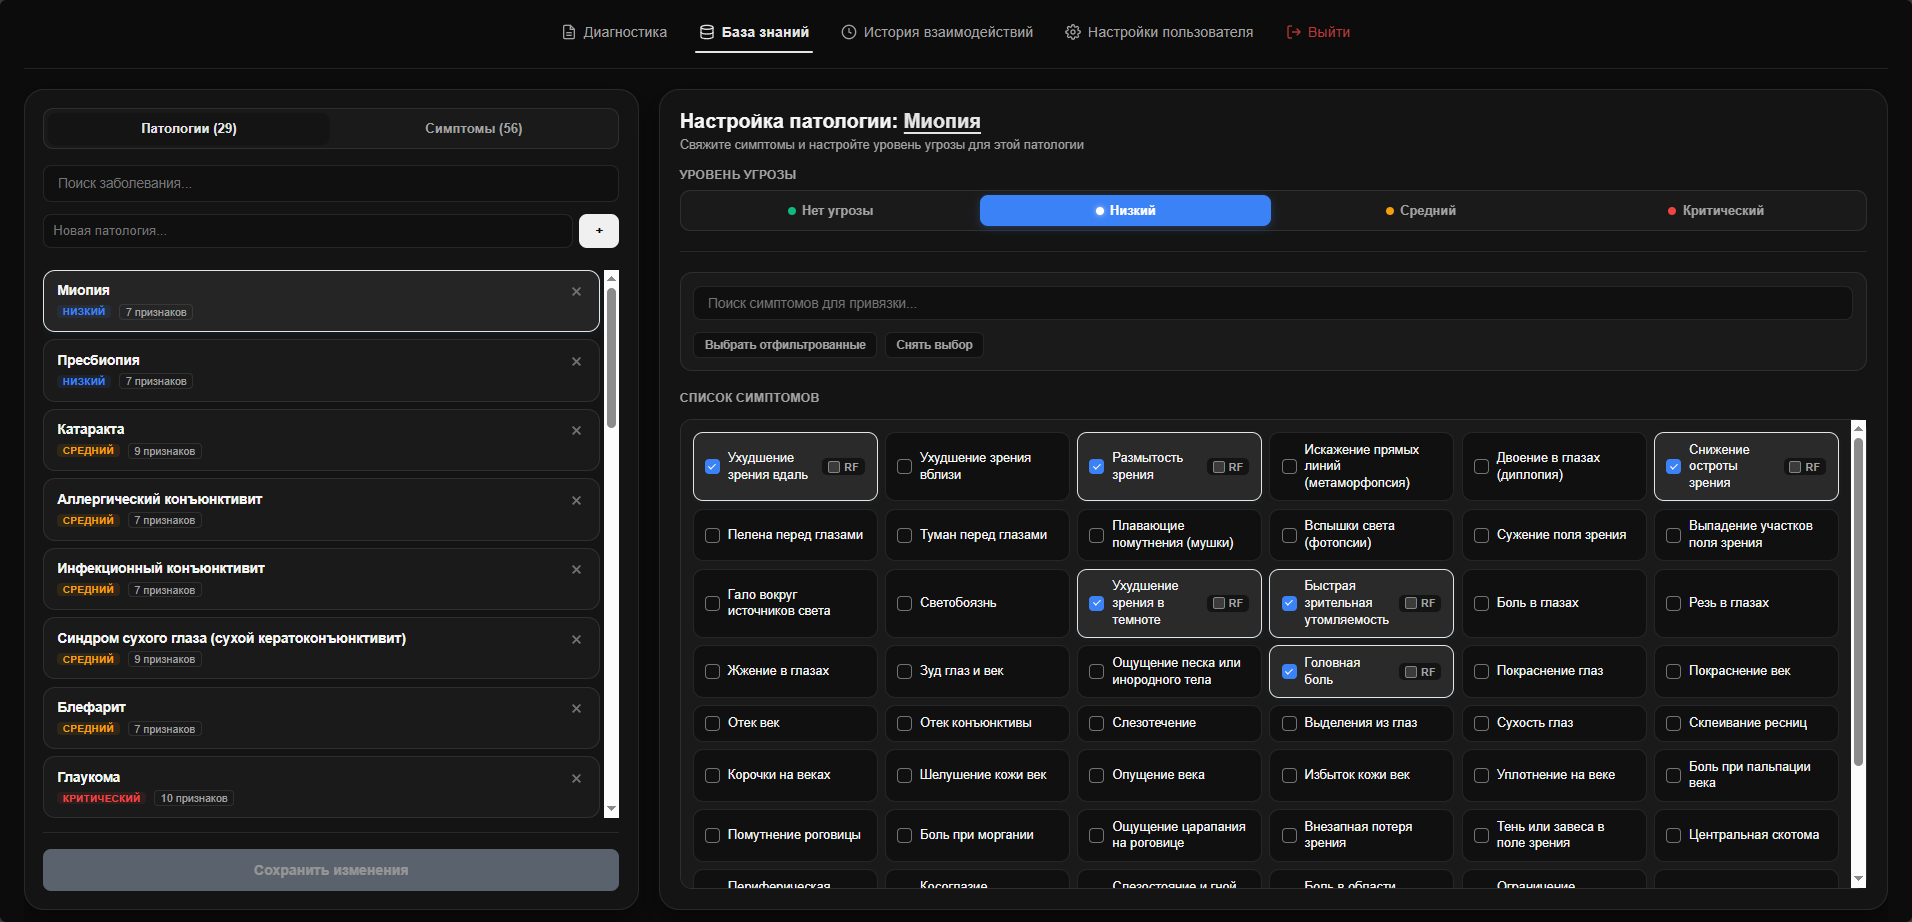
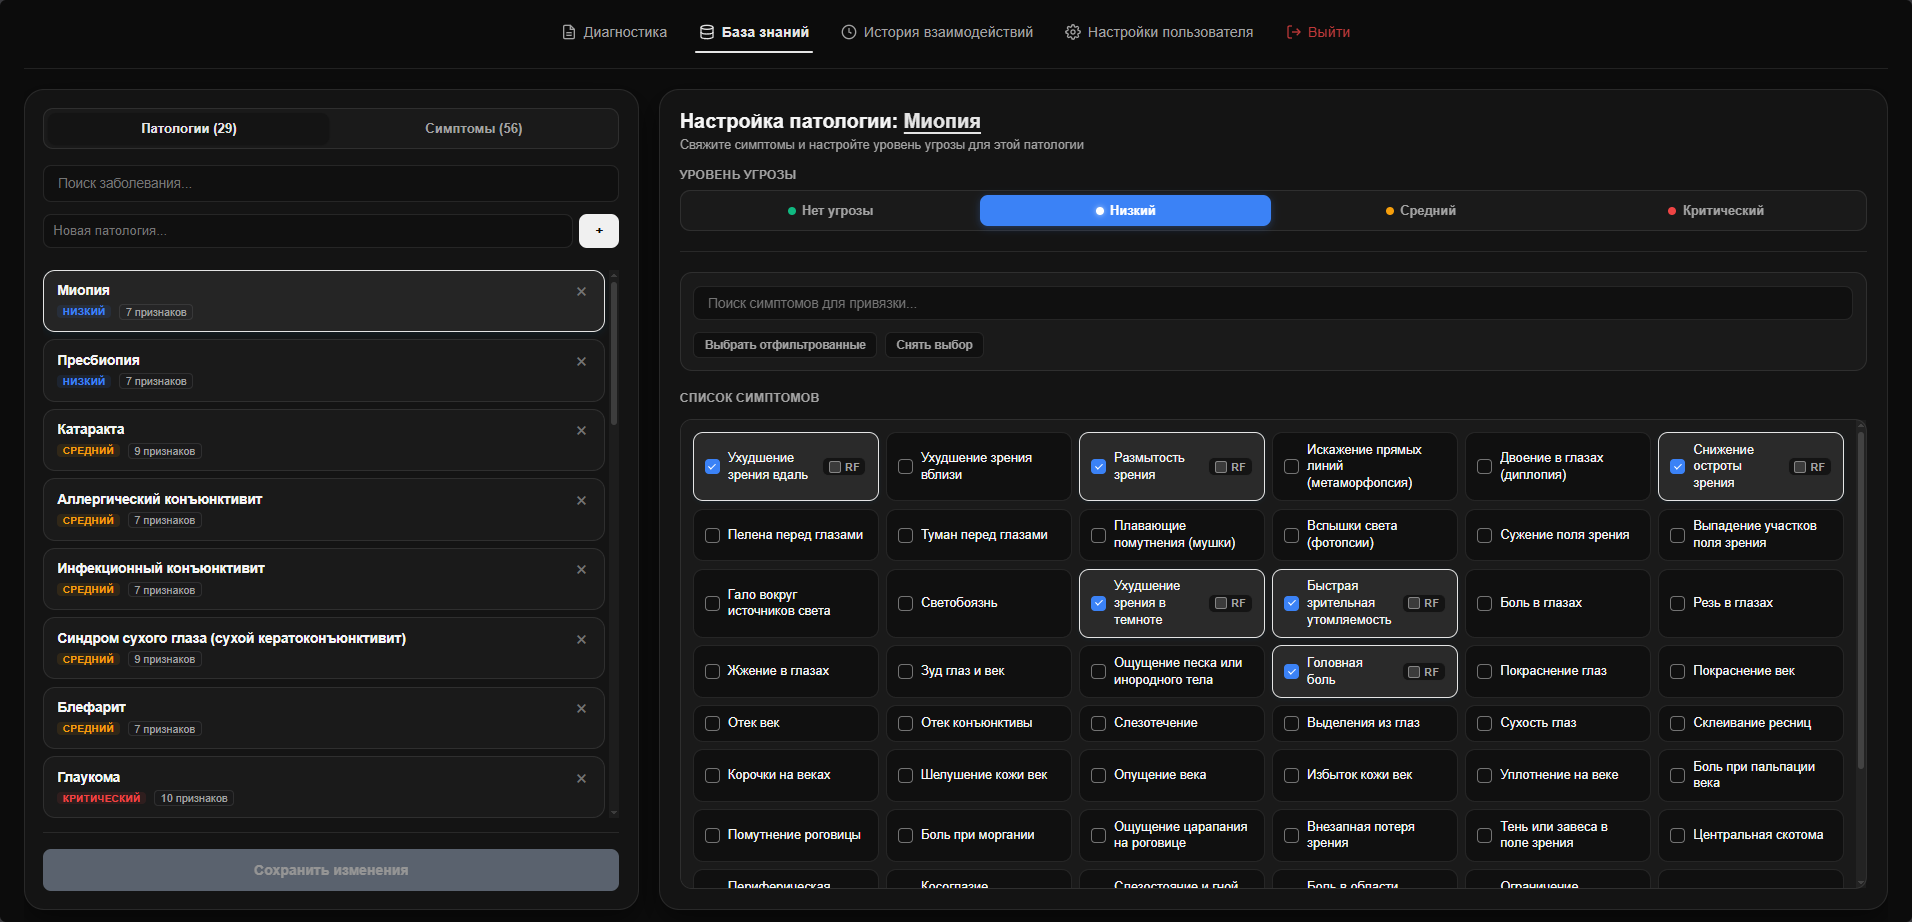
Scrollbar and screenshot image 2.png updates

diff --git a/frontend/src/App.css b/frontend/src/App.css
@@ -93,6 +93,11 @@
   --app-bottom-nav-height: 3.5rem;
   --app-bottom-nav-offset: calc(var(--app-bottom-nav-height) + env(safe-area-inset-bottom, 0px));
 
+  --scrollbar-size: 8px;
+  --scrollbar-track: rgba(15, 23, 42, 0.04);
+  --scrollbar-thumb: rgba(15, 23, 42, 0.16);
+  --scrollbar-thumb-hover: rgba(15, 23, 42, 0.28);
+
   color-scheme: light;
 }
 
@@ -120,6 +125,11 @@
     --shadow-md: 0 12px 28px rgba(0, 0, 0, 0.45);
     --shadow-lg: 0 28px 56px rgba(0, 0, 0, 0.55);
     --shadow-focus: 0 0 0 4px rgba(255, 255, 255, 0.1);
+
+    --scrollbar-size: 8px;
+    --scrollbar-track: rgba(255, 255, 255, 0.04);
+    --scrollbar-thumb: rgba(255, 255, 255, 0.14);
+    --scrollbar-thumb-hover: rgba(255, 255, 255, 0.24);
 
     color-scheme: dark;
   }
@@ -159,6 +169,57 @@
   .symptom-count-badge {
     background-color: var(--bg-hover);
   }
+}
+
+html,
+.diagnostics-panel-centered.diagnostics-has-results,
+.textarea-container-premium textarea,
+.diseases-scroller-premium,
+.checklist-grid,
+.audit-log-scroller-premium {
+  scrollbar-width: thin;
+  scrollbar-color: var(--scrollbar-thumb) var(--scrollbar-track);
+}
+
+html::-webkit-scrollbar,
+.diagnostics-panel-centered.diagnostics-has-results::-webkit-scrollbar,
+.textarea-container-premium textarea::-webkit-scrollbar,
+.diseases-scroller-premium::-webkit-scrollbar,
+.checklist-grid::-webkit-scrollbar,
+.audit-log-scroller-premium::-webkit-scrollbar {
+  width: var(--scrollbar-size);
+}
+
+html::-webkit-scrollbar-track,
+.diagnostics-panel-centered.diagnostics-has-results::-webkit-scrollbar-track,
+.textarea-container-premium textarea::-webkit-scrollbar-track,
+.diseases-scroller-premium::-webkit-scrollbar-track,
+.checklist-grid::-webkit-scrollbar-track,
+.audit-log-scroller-premium::-webkit-scrollbar-track {
+  background: var(--scrollbar-track);
+  border-radius: 999px;
+}
+
+html::-webkit-scrollbar-thumb,
+.diagnostics-panel-centered.diagnostics-has-results::-webkit-scrollbar-thumb,
+.textarea-container-premium textarea::-webkit-scrollbar-thumb,
+.diseases-scroller-premium::-webkit-scrollbar-thumb,
+.checklist-grid::-webkit-scrollbar-thumb,
+.audit-log-scroller-premium::-webkit-scrollbar-thumb {
+  background-color: var(--scrollbar-thumb);
+  border-radius: 999px;
+  border: 2px solid transparent;
+  background-clip: padding-box;
+  min-height: 2.5rem;
+}
+
+html::-webkit-scrollbar-thumb:hover,
+.diagnostics-panel-centered.diagnostics-has-results::-webkit-scrollbar-thumb:hover,
+.textarea-container-premium textarea::-webkit-scrollbar-thumb:hover,
+.diseases-scroller-premium::-webkit-scrollbar-thumb:hover,
+.checklist-grid::-webkit-scrollbar-thumb:hover,
+.audit-log-scroller-premium::-webkit-scrollbar-thumb:hover {
+  background-color: var(--scrollbar-thumb-hover);
 }
 
 *, *::before, *::after {